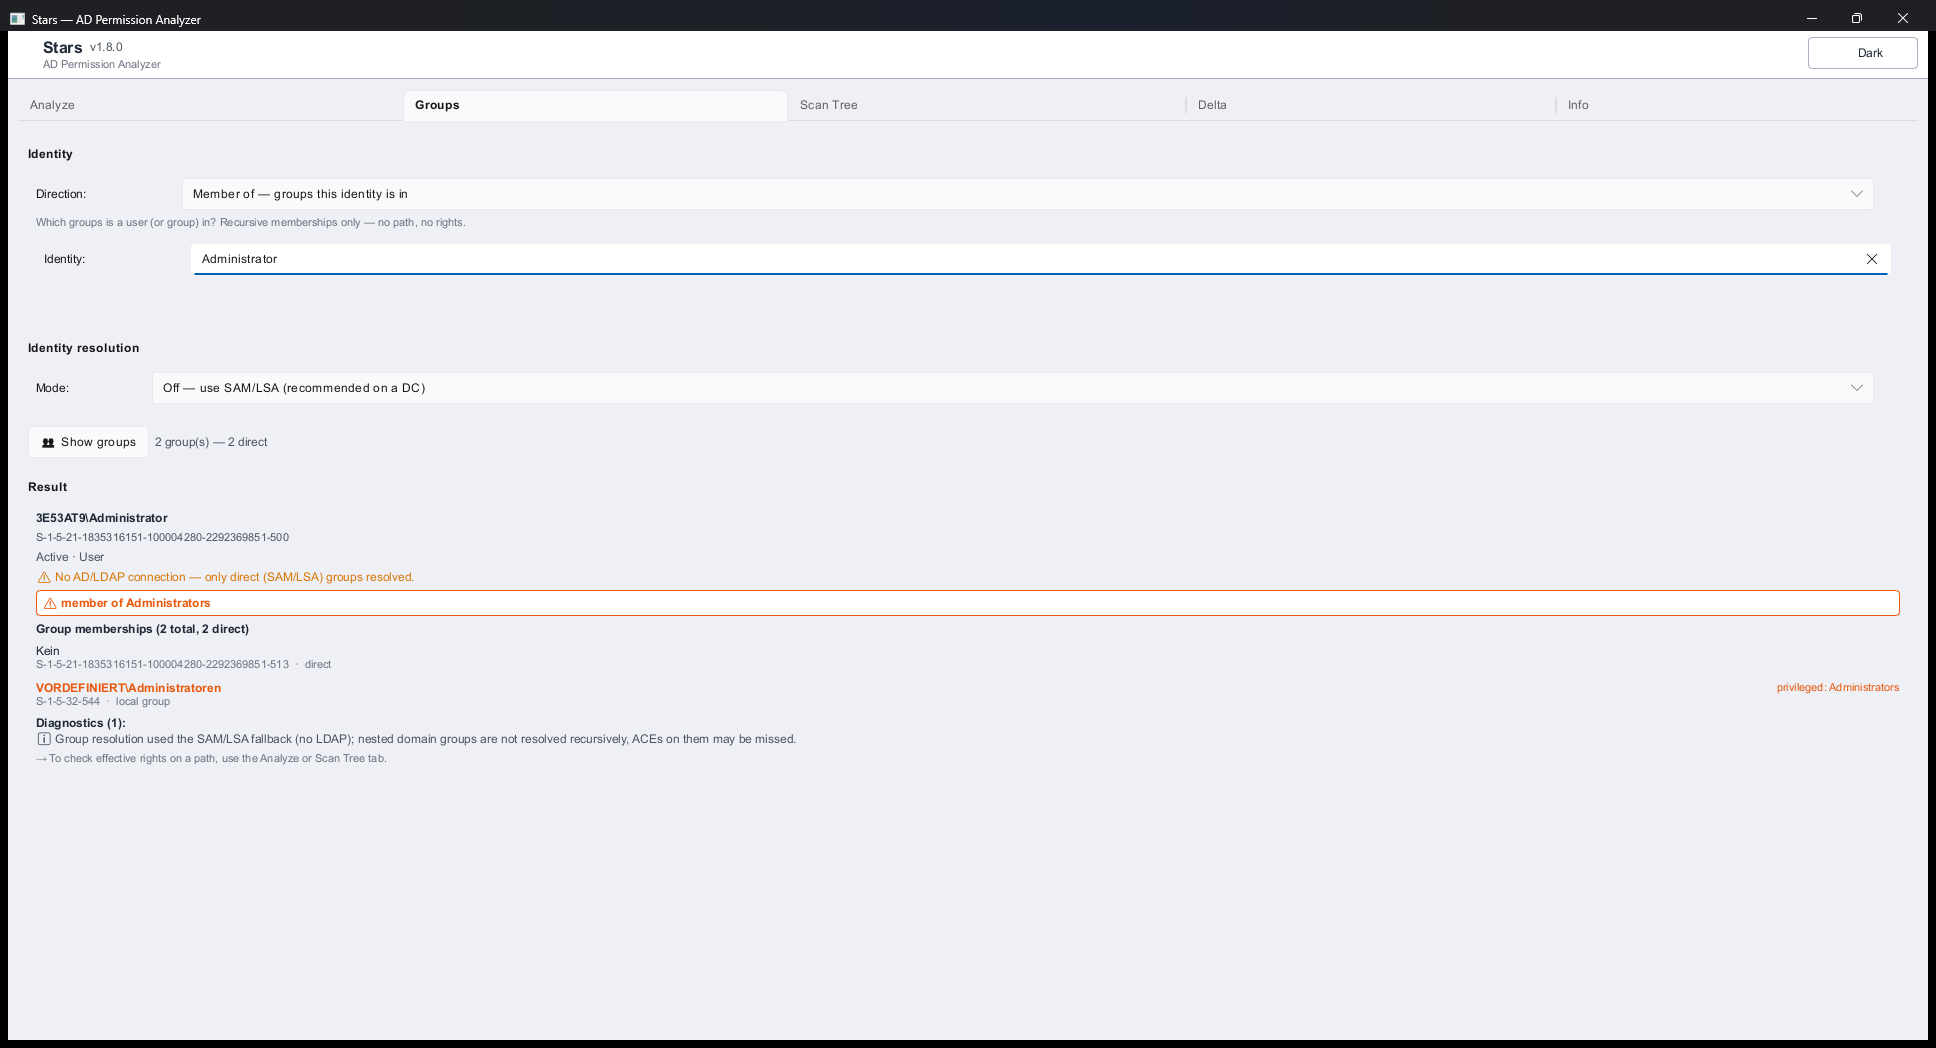
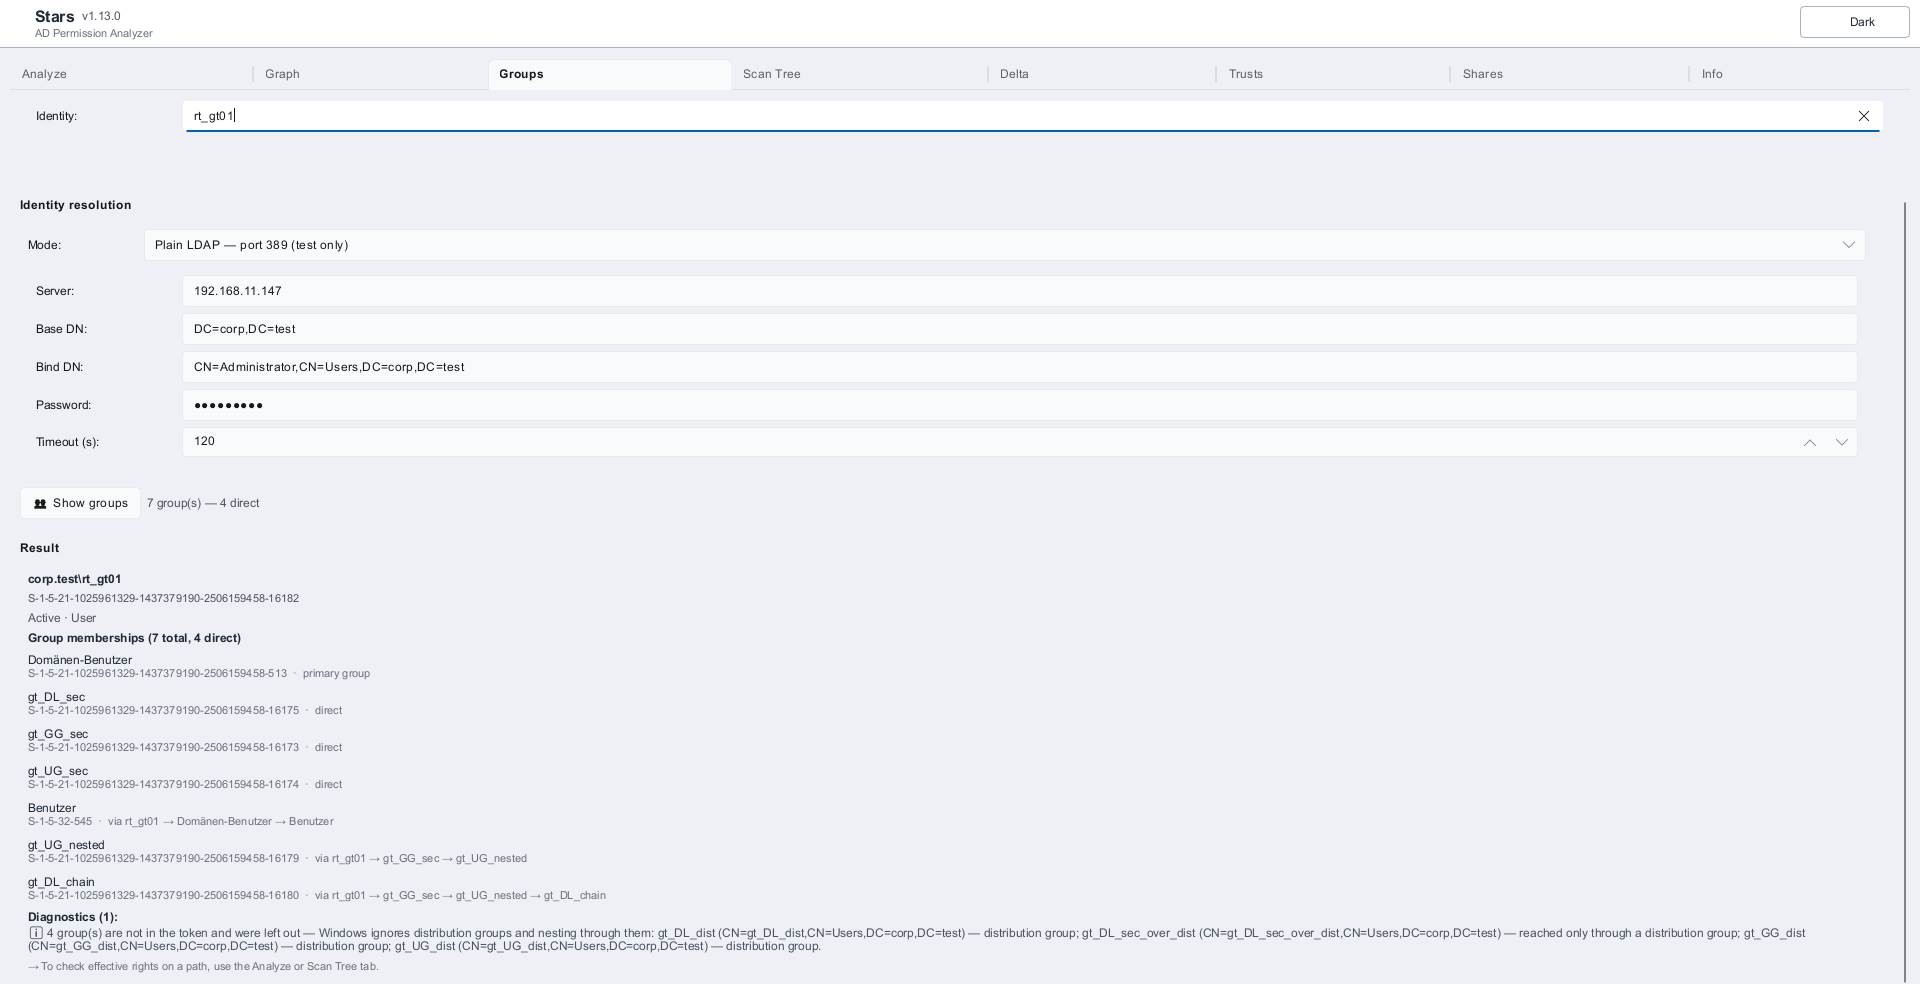
docs(user-guide): the Mode field of Identity resolution — where, which, what Off cannot do
The LDAP chapter named only the Analyze and Scan Tree tabs (the field is
also in Groups), numbered the modes unlike the GUI and used an outdated
label; the Groups section did not say that Off finds no domain accounts
from outside the domain, nor that only security groups are listed; the
Analyze section named three of five modes. New decision table 'Which mode
to choose'. Groups screenshot retaken on v1.13.0 (lab user with every
group kind and the excluded distribution groups).

diff --git a/docs/user-guide.md b/docs/user-guide.md
@@ -153,8 +153,10 @@ user can effectively do there.
 **Fields (sections inside the tab):**
 
 - **Target** — path, local (`C:\data\…`) or UNC (`\\server\share\…`).
-- **Identity resolution** — user/group via live search or direct
-  SID, plus mode (Off = SAM/LSA, LDAPS, plaintext LDAP). See
+- **Identity resolution** — the **Mode** field (Off, LDAPS, Plain LDAP,
+  Global Catalog, Signed LDAP) and, for every mode but Off, the LDAP
+  connection fields. Which mode fits your situation:
+  [Which mode to choose](#which-mode-to-choose). Identity input:
   [Identity input forms](#identity-input-forms).
 - **SMB share (optional)** — SMB server and share name. Auto-detected
   for UNC paths; on local paths on a share, set manually if you also
@@ -251,13 +253,23 @@ panel; this tab answers the question directly.
   appears (local users, groups, well-known identities with `[U]`/`[G]`/
   `[L]`/`[W]` markers), so similarly named accounts are easy to tell
   apart.
-- **Identity resolution** — the same modes as `Analyze` (Off = SAM/LSA,
-  LDAPS, plaintext LDAP, Global Catalog, Signed LDAP). On a DC, Off is
-  enough — but note it returns only **direct** global groups, so a
-  marker tells you when nested groups were not recursively resolved.
-  When a mode other than Off is selected, a **`Timeout (s)`** field
-  (1–600, default 10) appears — raise it on large or deeply nested
-  domains where the recursive query needs longer than 10 s.
+- **Identity resolution → Mode** — the same five modes and connection
+  fields as in `Analyze`; see [Which mode to choose](#which-mode-to-choose)
+  and [LDAP configuration](#ldap-configuration) for the fields. In short:
+  - **Off** (SAM/LSA) asks the Windows machine Stars runs on. On a domain
+    controller that works, but it returns only the **direct** groups — a
+    warning line ("No AD/LDAP connection — only direct (SAM/LSA) groups
+    resolved") and a diagnostic say so, nested groups are missing. On a
+    machine **outside** the domain, Off cannot find domain accounts at all
+    ("… is not known on this machine") — pick an LDAP mode.
+  - **LDAPS**, **Plain LDAP** (test only), **Global Catalog** or **Signed
+    LDAP** resolve the memberships **recursively** in AD — the complete
+    list.
+  - The **Members** direction always needs one of the LDAP modes.
+
+  With a mode other than Off, a **`Timeout (s)`** field (1–600, default 10)
+  appears — raise it on large or deeply nested domains where the recursive
+  query needs longer than 10 s.
 
 **Result:**
 
@@ -276,6 +288,13 @@ panel; this tab answers the question directly.
 - the same diagnostic markers as elsewhere (SAM/LSA fallback, FSP,
   Global Catalog, outside-base, `sIDHistory`, a resolution timeout), so
   an incomplete list never looks complete.
+
+**Only security groups are listed** — exactly the groups Windows puts into
+the logon token. Distribution groups (of any scope — domain local, global,
+universal), and security groups reached **only through** a distribution
+group, are left out because they never grant access; a Diagnostics line
+names each one and why ("distribution group" / "reached only through a
+distribution group"), so nothing disappears silently.
 
 To check what the identity can actually access, switch to `Analyze` or
 `Scan Tree`.
@@ -321,8 +340,9 @@ nesting (the full member tree) is planned.
 
 **Fields:**
 
-- **Root path**, **identity**, **SMB server** / **share name** as in
-  `Analyze`.
+- **Root path**, **identity**, **identity resolution (Mode)**, **SMB
+  server** / **share name** as in `Analyze` — see
+  [Which mode to choose](#which-mode-to-choose).
 - **Maximum scan depth** — protects against runaway walks; empty =
   unbounded.
 - **Start scan** — cancellable any time via the cancel button; the
@@ -595,21 +615,40 @@ in forests with hundreds of thousands of identities.
   server's account, never the one of the machine Stars runs on. For local
   administrators see `UacFilteredGroups` below (ADR 0070).
 
+### Which mode to choose
+
+The **Mode** field sits in the **"Identity resolution"** section of the
+`Analyze`, `Scan Tree` and `Groups` tabs (both directions). The `Trusts`
+tab uses the same connection fields without Off. In the CLI the same
+choice is made with `--server` (+ `--insecure-ldap`, `--global-catalog`,
+`--ldap-signing`); without `--server` it is Off.
+
+| Your situation | Mode | What you get |
+| --- | --- | --- |
+| Stars runs **on a domain controller**, quick check | **Off** | direct groups only; nested domain groups missing — a diagnostic says so |
+| Stars runs on a **workstation or member server**, domain accounts | **LDAPS**, or **Signed LDAP** when the DC enforces LDAP signing and has no trusted certificate | complete recursive memberships |
+| Machine **outside the domain** (e.g. an audit laptop) | **LDAPS** / **Signed LDAP** — Off cannot find domain accounts there | complete recursive memberships |
+| **Several domains / a forest**, accounts or groups from other domains | **Global Catalog** | forest-wide lookups; flagged as possibly incomplete (only universal groups replicate fully to the GC) |
+| **Local accounts of a file server** (`FS01\svc_backup`) in `Analyze` / `Scan Tree` | **Off** | exact — Stars reads the account on the server of the analysed path |
+| `Groups` → **Members**, or the `Trusts` tab | any LDAP mode (not Off) | needs a directory connection |
+| **Isolated test lab** only | **Plain LDAP** | like LDAPS, but the password crosses the network in plain text |
+
 ### LDAP configuration
 
-In the **"Identity resolution"** section (inside the `Analyze` and
-`Scan Tree` tabs) under **"LDAP mode"**:
+The five entries of the **Mode** field, as the GUI shows them:
 
-- **0 — Off (SAM/LSA)**: no LDAP, only local APIs.
-- **1 — LDAPS (encrypted, port 636)** — standard for production
+- **Off — use SAM/LSA (recommended on a DC)**: no LDAP, only the Windows
+  APIs of the machine Stars runs on (and, for a local account, of the
+  target server).
+- **LDAPS — encrypted, port 636** — standard for production
   environments.
-- **2 — Plain LDAP (port 389)** — **test only**. Password flows in
+- **Plain LDAP — port 389 (test only)** — the password flows in
   plain text.
-- **3 — Global Catalog (LDAPS, port 3269)** — forest-wide identity and
+- **Global Catalog — forest-wide, port 3269 (LDAPS)** — forest-wide identity and
   group lookups; the base DN may be left empty. Same certificate
   requirements as LDAPS (see below). Memberships are flagged potentially
   incomplete because only universal groups replicate fully to the GC.
-- **4 — Signed LDAP (Kerberos sign & seal, port 389)** — the **cert-free**
+- **Signed LDAP — Kerberos sign & seal, port 389** — the **cert-free**
   way to query a hardened DC that enforces LDAP signing. The bind is
   encrypted and integrity-protected by Kerberos, so **no LDAPS certificate
   is needed**. It uses the **current Windows logon** (single sign-on): no
@@ -635,6 +674,8 @@ Fields (all auto-trimmed before use):
   account is `Get-ADUser <name> -Properties distinguishedName`.
 - **Password** — bind password. **Never stored**, only valid for the
   current session.
+- **Timeout (s)** — LDAP operation timeout, 1–600 s, default 10; see
+  [Large or deeply nested domains](#large-or-deeply-nested-domains----ldap-timeout).
 
 ### LDAPS certificate requirements (read this before using LDAPS)
 

diff --git a/CHANGELOG.md b/CHANGELOG.md
@@ -10,6 +10,19 @@ Versions prior to `v0.2.0-rc1` are summarized because no formal release notes ex
 
 ## [Unreleased]
 
+### Changed
+
+- **User guide — the Mode field of "Identity resolution":** a new table
+  "Which mode to choose" (DC, workstation, machine outside the domain,
+  forest, local accounts, Members / Trusts, test lab); the chapter named
+  only the Analyze and Scan Tree tabs although the field is also in the
+  Groups tab, used numbers the GUI does not show and an outdated label.
+  The Groups tab section now says what Off can and cannot do (direct
+  groups only on a DC, no domain accounts from outside the domain) and
+  that only security groups are listed; the Analyze section names all
+  five modes, the Scan Tree section the field at all.
+- **Screenshots** of the Analyze, Graph and Groups tabs taken on v1.13.0.
+
 ## [1.13.0] — 2026-10-17
 
 **The permission path as a picture — and one false warning less.**
